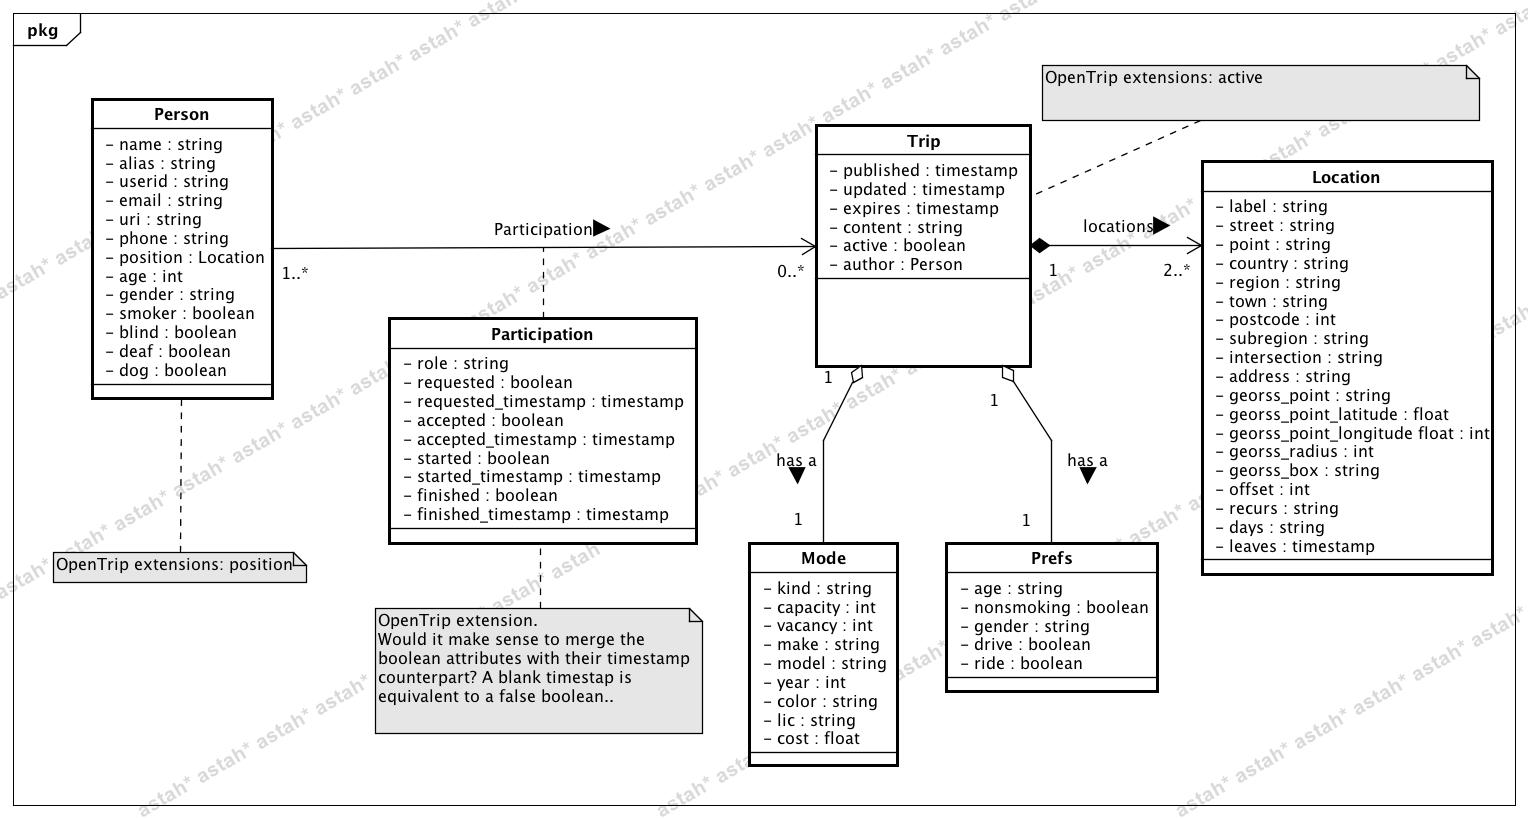
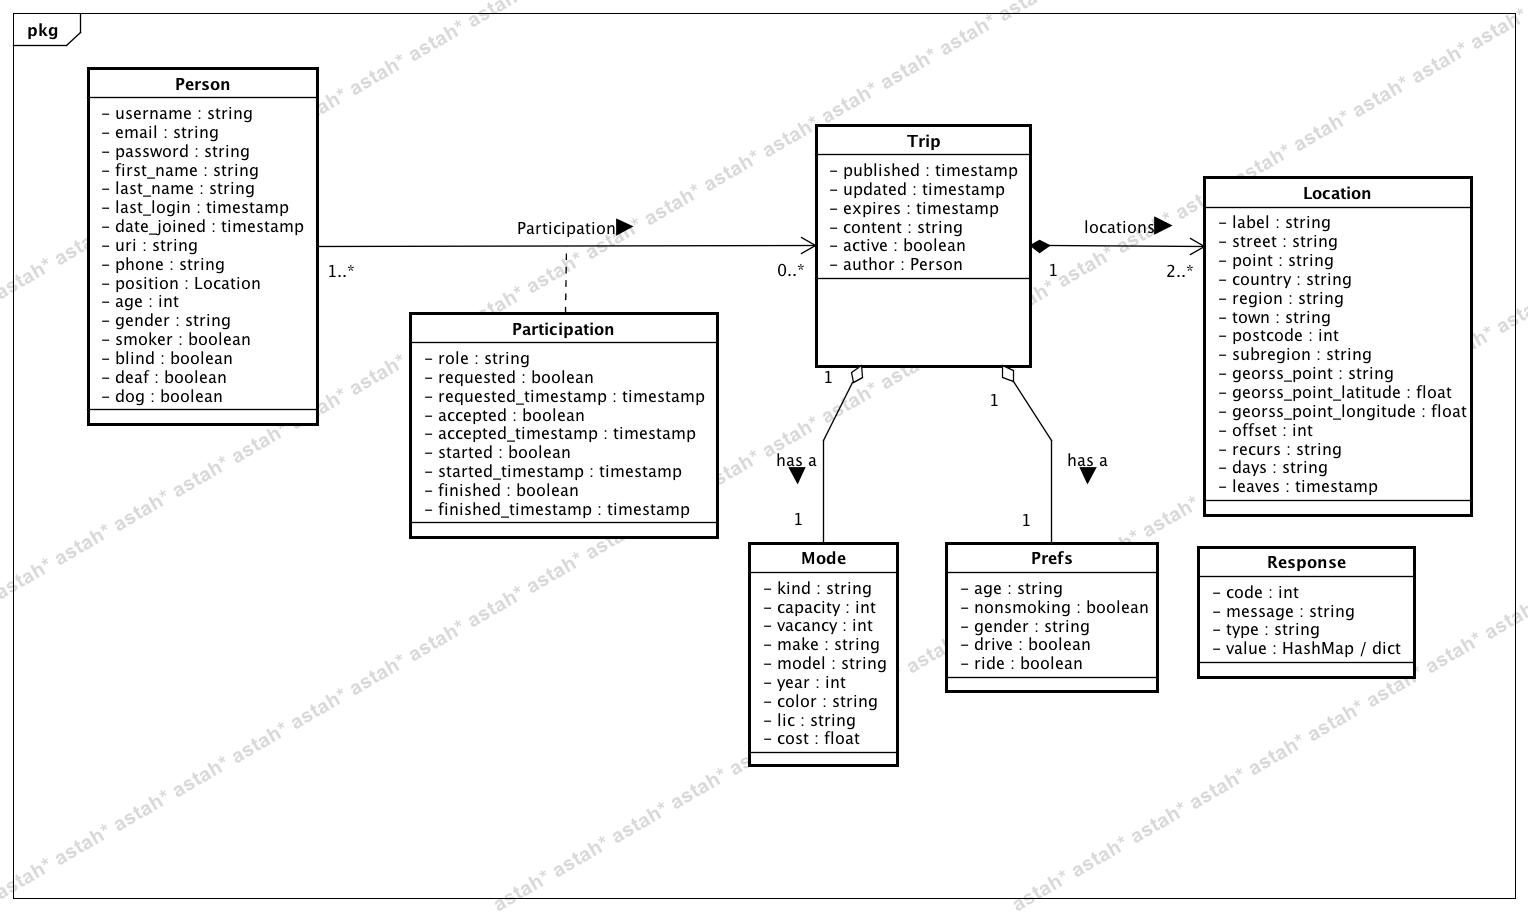
New Class Diagram, cleaned models

diff --git a/server/models.py b/server/models.py
@@ -89,16 +89,12 @@ class Location(models.Model):
     town = models.CharField(max_length=255, blank=True) # OPT
     postcode = models.PositiveIntegerField(blank=True,null=True) # OPT
     subregion = models.CharField(max_length=255, blank=True) # OPT
-    #intersection = models.CharField(max_length=255, blank=True) # OPT
-    #address = models.CharField(max_length=255, blank=True) # OPT
     georss_point = models.CharField(max_length=255, blank=True)  # RECOM
     """
     georss_pont_latitude and georss_point_longitude should be just used internally
     """
     georss_point_latitude = models.FloatField(null=True) #EXT
     georss_point_longitude = models.FloatField(null=True) #EXT
-    #georss_radius = models.PositiveIntegerField(blank=True,null=True) # OPT
-    #georss_box = models.CharField(max_length=255, blank=True) # OPT
     """
     The following should be members of a separate Date-Time class but are included here for simplicity
     """
@@ -130,18 +126,7 @@ class Location(models.Model):
             self.geopy_it()
         super(Location, self).save(force_insert, force_update) # Call the "real" save() method.
         
-    def geopy_it(self):
-        """
-        TODO: popoulate a Location object using geopy
-        """
-        pass
-    
-    def natural_key(self):
-        """
-        Will be used in serialization. Work in progress
-        """
-        return (self.georss_point)
-    
+   
     def __unicode__(self):
         return self.georss_point
 
@@ -159,11 +144,7 @@ class Person(User):
     # last_login from Django
     # date_joined from Django
     # username from Django
-    
-    #name = models.CharField(max_length=200) # MUST
-    #alias = models.CharField(max_length=200,blank=True) # OPT
-    #userid = models.CharField(max_length=200,blank=False) # MUST
-    #email = models.CharField(max_length=200) # OPT
+    # password from Django
     uri = models.CharField(max_length=200,blank=True) # OPT
     phone = models.CharField(max_length=200,blank=False) # OPT
     position = models.ForeignKey(Location,blank=True,null=True) # EXT
